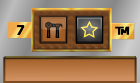
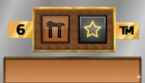
Update Utopia Planitia with the official awards and milestones (#7721)
Updated Smith with the official 6 value.

diff --git a/src/server/milestones/Milestones.ts b/src/server/milestones/Milestones.ts
@@ -135,7 +135,7 @@ export const milestoneManifest: MAManifest<MilestoneName, IMilestone> = {
     [BoardName.ARABIA_TERRA]: ['Economizer', 'Pioneer', 'Land Specialist', 'Martian', 'Terran'],
     [BoardName.TERRA_CIMMERIA]: ['T. Collector', 'Firestarter', 'Terra Pioneer', 'Spacefarer', 'Gambler'],
     [BoardName.VASTITAS_BOREALIS]: ['V. Electrician', 'Smith', 'Tradesman', 'Irrigator', 'Capitalist'],
-    [BoardName.UTOPIA_PLANITIA]: [/* 'Suburbian', 'Investor', 'Botanist', 'Incorporator', 'Metropolist' */],
+    [BoardName.UTOPIA_PLANITIA]: ['Land Specialist', 'Pioneer', 'Tradesman', 'Smith', 'Researcher'],
     [BoardName.VASTITAS_BOREALIS_NOVUS]: ['Agronomist', 'V. Spacefarer', 'Geologist', 'Engineer', 'Farmer'],
     [BoardName.TERRA_CIMMERIA_NOVUS]: ['Planetologist', 'Architect', 'Coastguard', 'C. Forester', 'Fundraiser'],
     [BoardName.HOLLANDIA]: [],

diff --git a/src/server/awards/Awards.ts b/src/server/awards/Awards.ts
@@ -126,7 +126,7 @@ export const awardManifest: MAManifest<AwardName, IAward> = {
     [BoardName.ARABIA_TERRA]: ['Cosmic Settler', 'Botanist', 'Promoter', 'Zoologist', 'A. Manufacturer'],
     [BoardName.TERRA_CIMMERIA]: ['Biologist', 'Incorporator', 'T. Politician', 'Urbanist', 'Warmonger'],
     [BoardName.VASTITAS_BOREALIS]: ['Forecaster', 'Edgedancer', 'Visionary', 'Naturalist', 'Voyager'],
-    [BoardName.UTOPIA_PLANITIA]: [/* 'Suburbian', 'Investor', 'Botanist', 'Incorporator', 'Metropolist' */],
+    [BoardName.UTOPIA_PLANITIA]: ['Edgedancer', 'Investor', 'Botanist', 'Incorporator', 'Metropolist'],
     [BoardName.VASTITAS_BOREALIS_NOVUS]: ['Traveller', 'Landscaper', 'Highlander', 'Promoter', 'Blacksmith'],
     [BoardName.TERRA_CIMMERIA_NOVUS]: ['Electrician', 'Founder', 'Mogul', 'A. Zoologist', 'Forecaster'],
     [BoardName.HOLLANDIA]: [],

diff --git a/src/server/ma/MilestoneAwardSelector.ts b/src/server/ma/MilestoneAwardSelector.ts
@@ -8,7 +8,7 @@ import {UnseededRandom} from '../../common/utils/Random';
 import {MilestoneName, milestoneNames} from '../../common/ma/MilestoneName';
 import {AwardName, awardNames} from '../../common/ma/AwardName';
 import {synergies} from './MilestoneAwardSynergies';
-import {MAManifest, isCompatible} from './MAManifest';
+import {isCompatible, MAManifest} from './MAManifest';
 import {intersection} from '../../common/utils/utils';
 
 type DrawnMilestonesAndAwards = {
@@ -72,6 +72,7 @@ export function chooseMilestonesAndAwards(gameOptions: GameOptions): DrawnMilest
     case BoardName.THARSIS:
     case BoardName.HELLAS:
     case BoardName.ELYSIUM:
+    case BoardName.UTOPIA_PLANITIA:
     case BoardName.ARABIA_TERRA:
     case BoardName.AMAZONIS:
     case BoardName.TERRA_CIMMERIA:

diff --git a/tests/milestones/Smith.spec.ts b/tests/milestones/Smith.spec.ts
@@ -12,8 +12,8 @@ describe('Smith', () => {
     player = TestPlayer.BLUE.newPlayer();
   });
 
-  it('Can claim with 7 steel and titanium production', () => {
-    player.production.add(Resource.STEEL, 5);
+  it('Can claim with 6 steel and titanium production', () => {
+    player.production.add(Resource.STEEL, 4);
     player.production.add(Resource.TITANIUM, 1);
     expect(milestone.canClaim(player)).is.false;
 

diff --git a/src/server/milestones/Smith.ts b/src/server/milestones/Smith.ts
@@ -5,8 +5,8 @@ export class Smith extends BaseMilestone {
   constructor() {
     super(
       'Smith',
-      'Have a total of 7 steel and titanium production',
-      7);
+      'Have a total of 6 steel and titanium production',
+      6);
   }
 
   public getScore(player: IPlayer): number {
